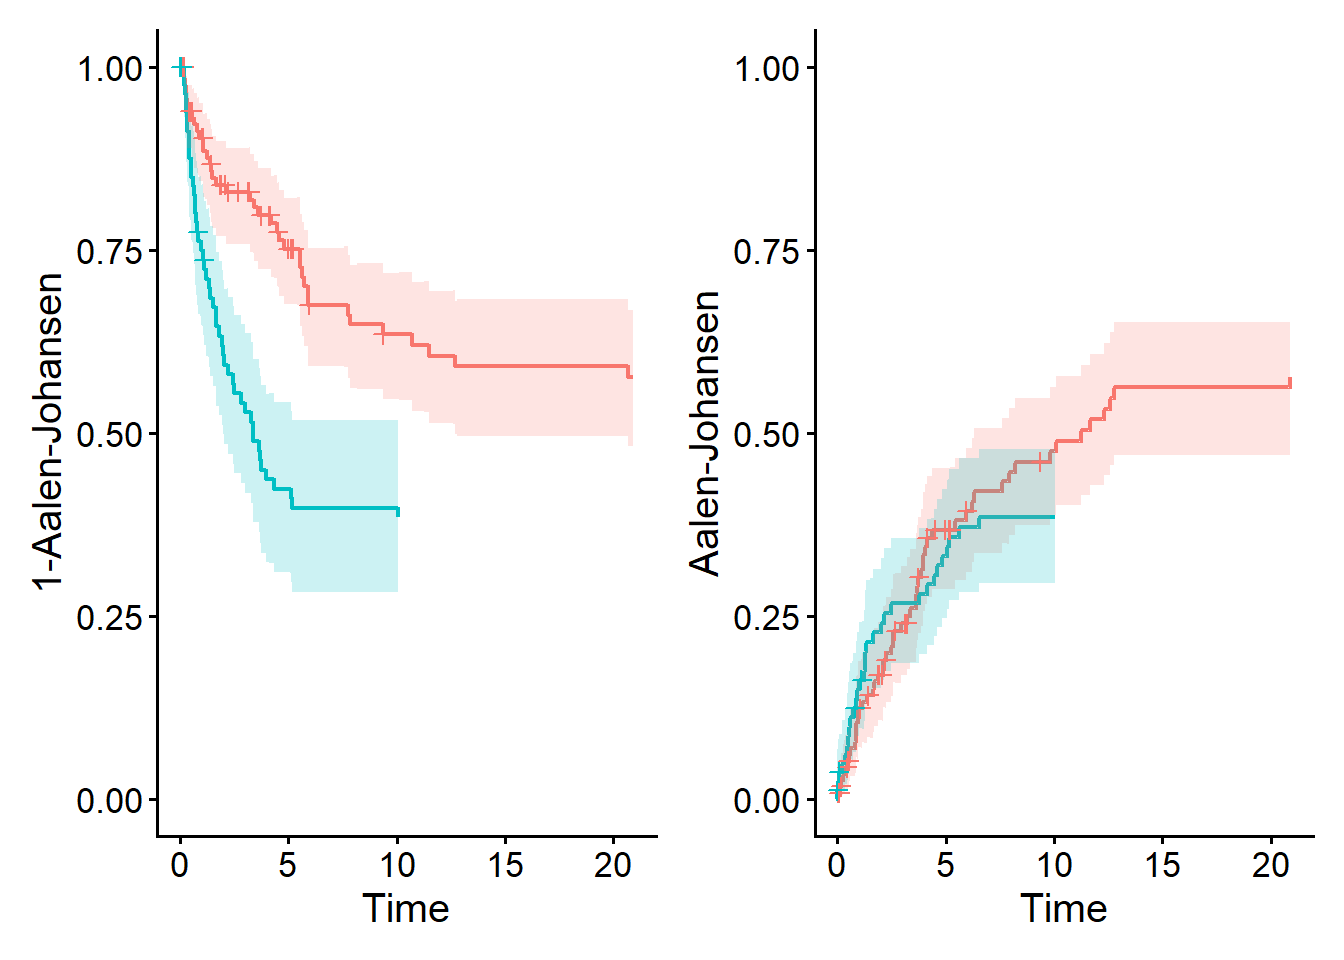
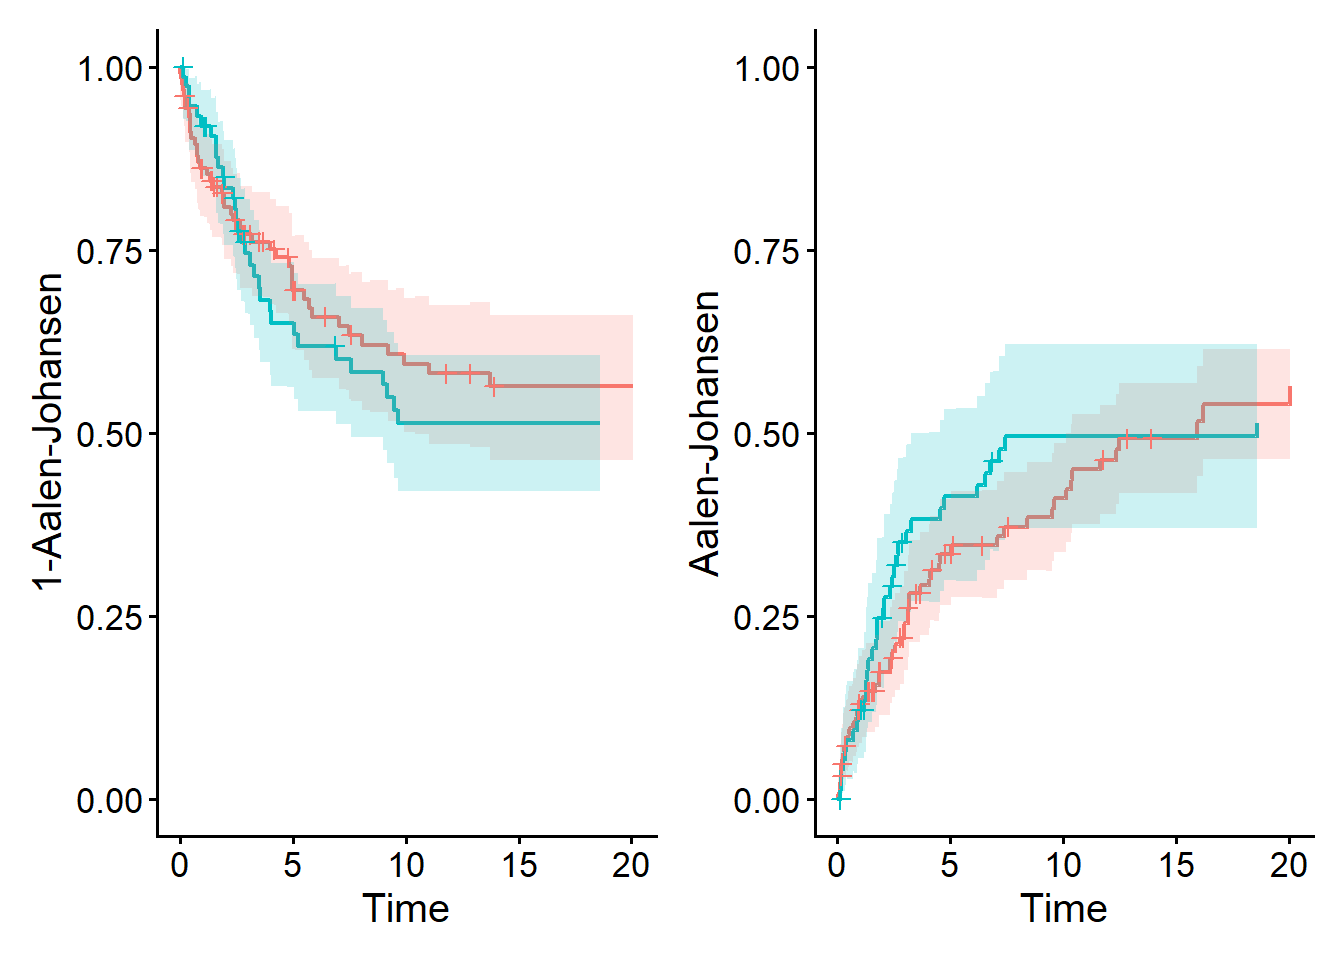
dag

diff --git a/docs/jp/causal-inference-3.html b/docs/jp/causal-inference-3.html
@@ -331,8 +331,32 @@ window.Quarto = {
 <p>お父さん「まだ話は続くから、コーヒー淹れなおそうか。ここからの話題はDAGと確率変数の関係について。まず、以下のRコードの実行結果をみてよ」</p>
 </div>
 </div>
-<div class="callout callout-style-simple callout-note callout-titled" title="Rパッケージを用いたDAGのコードはこちら">
+<div class="callout callout-style-simple callout-note callout-titled" title="ピロリ菌と胃がんの因果関係を表すDAG">
 <div class="callout-header d-flex align-content-center" data-bs-toggle="collapse" data-bs-target=".callout-1-contents" aria-controls="callout-1" aria-expanded="false" aria-label="Toggle callout">
+<div class="callout-icon-container">
+<i class="callout-icon"></i>
+</div>
+<div class="callout-title-container flex-fill">
+ピロリ菌と胃がんの因果関係を表すDAG
+</div>
+<div class="callout-btn-toggle d-inline-block border-0 py-1 ps-1 pe-0 float-end"><i class="callout-toggle"></i></div>
+</div>
+<div id="callout-1" class="callout-1-contents callout-collapse collapse">
+<div class="callout-body-container callout-body">
+<p>ピロリ菌と胃がんの因果関係を表すDAGをもう一度示します。</p>
+<p><img src="causal-inference-3-7.png" class="img-fluid"></p>
+<ul>
+<li>A: 性格（心配性）</li>
+<li>B: 年齢</li>
+<li>C: 体質（胃の炎症）</li>
+<li>D: 胃がん発生</li>
+<li>E: ピロリ菌除菌</li>
+</ul>
+</div>
+</div>
+</div>
+<div class="callout callout-style-simple callout-note callout-titled" title="Rパッケージを用いたDAGのコードはこちら">
+<div class="callout-header d-flex align-content-center" data-bs-toggle="collapse" data-bs-target=".callout-2-contents" aria-controls="callout-2" aria-expanded="false" aria-label="Toggle callout">
 <div class="callout-icon-container">
 <i class="callout-icon"></i>
 </div>
@@ -341,11 +365,9 @@ Rパッケージを用いたDAGのコードはこちら
 </div>
 <div class="callout-btn-toggle d-inline-block border-0 py-1 ps-1 pe-0 float-end"><i class="callout-toggle"></i></div>
 </div>
-<div id="callout-1" class="callout-1-contents callout-collapse collapse">
+<div id="callout-2" class="callout-2-contents callout-collapse collapse">
 <div class="callout-body-container callout-body">
-<p>ピロリ菌と胃がんの因果関係を表すDAGをもう一度示します。</p>
-<p><img src="causal-inference-3-7.png" class="img-fluid"></p>
-<p>このDAGを使って何がわかるかをみるため、Rの<strong>dagitty</strong>パッケージを実行してみます。</p>
+<p>このDAGを使って何がわかるかをみるため、Rの<strong>dagitty</strong>パッケージを実行してみます。<code>dagitty()</code>は、変数の出口と入口を指定することで、ノードを矢印で結びます。<code>adjustmentSets()</code>は、DAGを与えて調整すべき変数の集合（交絡因子の集合）を調べるツールです。</p>
 <div class="cell">
 <div class="sourceCode cell-code" id="cb1"><pre class="sourceCode r code-with-copy"><code class="sourceCode r"><span id="cb1-1"><a href="#cb1-1" aria-hidden="true" tabindex="-1"></a><span class="co"># install.packages("dagitty") #インストールが必要なら実行</span></span>
 <span id="cb1-2"><a href="#cb1-2" aria-hidden="true" tabindex="-1"></a><span class="fu">library</span>(dagitty)</span>
@@ -381,15 +403,15 @@ Rパッケージを用いたDAGのコードはこちら
 </div>
 </div>
 <div class="dialogue">
-<div class="voice-father">
-<p>私「ふむ。今回も呪文の意味はわからぬが、とりあえず、<code>dagitty()</code>の出力を<code>plot()</code>に入れるとDAGが描けたね。そして<code>adjustmentSets()</code>の出力を<code>print()</code>に入れると、交絡因子はBとC、AとCって表示された」</p>
+<div class="voice-daughter">
+<p>私「ふむ。今回も呪文の意味はわからぬが、とりあえず、<code>dagitty()</code>の出力を<code>plot()</code>に入れるとDAGが描かれた。そして<code>adjustmentSets()</code>の出力を<code>print()</code>に入れると、交絡因子はBとC、AとCって表示された」</p>
 </div>
 <div class="voice-father">
-<p>お父さん「その通り。ここからは、DAGから交絡因子を探すアルゴリズムの話なんだけど、そのためには同時分布と条件付分布が要る。人によっては復習が必要かもしれない」</p>
+<p>お父さん「その通り。ここからは、どうやってDAGから交絡因子として調整すべき変数たちを探すかっていうアルゴリズムの話をするねｄｄ。そのためには同時分布と条件付分布が要る。人によっては復習が必要かもしれない」</p>
 </div>
 </div>
 <div class="callout callout-style-simple callout-note callout-titled" title="確率の復習">
-<div class="callout-header d-flex align-content-center" data-bs-toggle="collapse" data-bs-target=".callout-2-contents" aria-controls="callout-2" aria-expanded="false" aria-label="Toggle callout">
+<div class="callout-header d-flex align-content-center" data-bs-toggle="collapse" data-bs-target=".callout-3-contents" aria-controls="callout-3" aria-expanded="false" aria-label="Toggle callout">
 <div class="callout-icon-container">
 <i class="callout-icon"></i>
 </div>
@@ -398,7 +420,7 @@ Rパッケージを用いたDAGのコードはこちら
 </div>
 <div class="callout-btn-toggle d-inline-block border-0 py-1 ps-1 pe-0 float-end"><i class="callout-toggle"></i></div>
 </div>
-<div id="callout-2" class="callout-2-contents callout-collapse collapse">
+<div id="callout-3" class="callout-3-contents callout-collapse collapse">
 <div class="callout-body-container callout-body">
 <p><strong>同時確率と条件付確率</strong></p>
 <p>複数の事象を扱うとき、<strong>事象が同時に起こる確率（同時確率</strong>）と、<strong>順番に起こる確率（条件付確率）</strong>を区別することが大切です。たとえば2種類の事象AとBがあったとしましょう。「AまたはBが起きる」という事象は、和集合<span class="math inline">\(A\cup{B}\)</span>で表します。「AかつBが起きる」という事象は、積集合<span class="math inline">\(A\cap{B}\)</span>で表します。</p>
@@ -419,7 +441,7 @@ Rパッケージを用いたDAGのコードはこちら
 </div>
 <div class="dialogue">
 <div class="voice-father">
-<p>お父さん「復習はできた？じゃあDAGと確率変数の関係について説明しよう」</p>
+<p>お父さん「思い出した？じゃあDAGと確率変数の関係について説明しよう」</p>
 </div>
 <div class="voice-daughter">
 <p>私「ふむふむ」</p>
@@ -485,7 +507,7 @@ Rパッケージを用いたDAGのコードはこちら
 <p>私「なんとなくゴールが見えてきた。この図みたいにCが合流点だったら、調整なんかせずにEとDの相関を調べればいいってことね」</p>
 </div>
 <div class="voice-father">
-<p>お父さん「簡単にいうとそういうこと。<strong>合流点があると、変数間の相関関係がトリッキーになる</strong>んだ」</p>
+<p>お父さん「簡単にいうとそういうこと。<strong>合流点があると、変数間の相関関係がトリッキーになる</strong>んだ。簡単にいうと、<strong>dagitty</strong>パッケージは合流点に気をつけながら、バックドアパスをブロックする変数を見つけてくれるんだ」</p>
 </div>
 </div>
 <div class="callout callout-style-simple callout-note callout-titled" title="合流点の性質">
@@ -513,7 +535,7 @@ Rパッケージを用いたDAGのコードはこちら
 </div>
 </div>
 <div class="callout callout-style-simple callout-note callout-titled" title="合流点とブロックの関係">
-<div class="callout-header d-flex align-content-center" data-bs-toggle="collapse" data-bs-target=".callout-4-contents" aria-controls="callout-4" aria-expanded="false" aria-label="Toggle callout">
+<div class="callout-header d-flex align-content-center" data-bs-toggle="collapse" data-bs-target=".callout-5-contents" aria-controls="callout-5" aria-expanded="false" aria-label="Toggle callout">
 <div class="callout-icon-container">
 <i class="callout-icon"></i>
 </div>
@@ -522,7 +544,7 @@ Rパッケージを用いたDAGのコードはこちら
 </div>
 <div class="callout-btn-toggle d-inline-block border-0 py-1 ps-1 pe-0 float-end"><i class="callout-toggle"></i></div>
 </div>
-<div id="callout-4" class="callout-4-contents callout-collapse collapse">
+<div id="callout-5" class="callout-5-contents callout-collapse collapse">
 <div class="callout-body-container callout-body">
 <p>この表は、原因から結果までのパスを、有向か無向か、合流点をいくつ含んでいるかに従って、4分類して、パスの性質を整理したものです。すでに述べたように、調整するかどうか検討の候補になるのは、原因から結果までの無向パスです。もし、無向パスが<strong>合流点を含まないなら、パス上のどこかの変数を調整しない限り、そのパスはブロックされません</strong>。言い換えると、パス上の変数を調整し、このパスをブロックすることで、バイアスを防ぐことができるかもしれません。無向パスが<strong>合流点を1つ含むとき、調整しなくてもこのパスは合流点でブロックされます</strong>が、<strong>合流点のみを調整すると、ブロックが解けてしまいます</strong>。ただし、非合流点を調整すると、合流点を調整したとしても、そのパスはブロックされます。合流点を1つ以上含む場合も、考え方は同じです。調整していない合流点があるか、非合流点を調整すると、このパスはブロックされます。しかし、すべての合流点のみを調整すると、ブロックが解けてしまいます。</p>
 <table class="caption-top table">
@@ -583,7 +605,7 @@ Rパッケージを用いたDAGのコードはこちら
 </div>
 </div>
 <div class="callout callout-style-simple callout-note callout-titled" title="答えはこちら">
-<div class="callout-header d-flex align-content-center" data-bs-toggle="collapse" data-bs-target=".callout-6-contents" aria-controls="callout-6" aria-expanded="false" aria-label="Toggle callout">
+<div class="callout-header d-flex align-content-center" data-bs-toggle="collapse" data-bs-target=".callout-7-contents" aria-controls="callout-7" aria-expanded="false" aria-label="Toggle callout">
 <div class="callout-icon-container">
 <i class="callout-icon"></i>
 </div>
@@ -592,7 +614,7 @@ Rパッケージを用いたDAGのコードはこちら
 </div>
 <div class="callout-btn-toggle d-inline-block border-0 py-1 ps-1 pe-0 float-end"><i class="callout-toggle"></i></div>
 </div>
-<div id="callout-6" class="callout-6-contents callout-collapse collapse">
+<div id="callout-7" class="callout-7-contents callout-collapse collapse">
 <div class="callout-body-container callout-body">
 <ul>
 <li><strong>正解は1です。</strong></li>
@@ -623,7 +645,7 @@ Rパッケージを用いたDAGのコードはこちら
 </div>
 </div>
 <div class="callout callout-style-simple callout-note callout-titled" title="答えはこちら">
-<div class="callout-header d-flex align-content-center" data-bs-toggle="collapse" data-bs-target=".callout-8-contents" aria-controls="callout-8" aria-expanded="false" aria-label="Toggle callout">
+<div class="callout-header d-flex align-content-center" data-bs-toggle="collapse" data-bs-target=".callout-9-contents" aria-controls="callout-9" aria-expanded="false" aria-label="Toggle callout">
 <div class="callout-icon-container">
 <i class="callout-icon"></i>
 </div>
@@ -632,7 +654,7 @@ Rパッケージを用いたDAGのコードはこちら
 </div>
 <div class="callout-btn-toggle d-inline-block border-0 py-1 ps-1 pe-0 float-end"><i class="callout-toggle"></i></div>
 </div>
-<div id="callout-8" class="callout-8-contents callout-collapse collapse">
+<div id="callout-9" class="callout-9-contents callout-collapse collapse">
 <div class="callout-body-container callout-body">
 <ul>
 <li><strong>正解は4です。</strong></li>
@@ -655,7 +677,7 @@ Rパッケージを用いたDAGのコードはこちら
 <li><a href="causal-inference-4.html">A Circle, an Equation, and a Cylinder</a></li>
 </ul>
 <div class="callout callout-style-simple callout-note callout-titled" title="他のエピソードはこちら">
-<div class="callout-header d-flex align-content-center" data-bs-toggle="collapse" data-bs-target=".callout-9-contents" aria-controls="callout-9" aria-expanded="false" aria-label="Toggle callout">
+<div class="callout-header d-flex align-content-center" data-bs-toggle="collapse" data-bs-target=".callout-10-contents" aria-controls="callout-10" aria-expanded="false" aria-label="Toggle callout">
 <div class="callout-icon-container">
 <i class="callout-icon"></i>
 </div>
@@ -664,7 +686,7 @@ Rパッケージを用いたDAGのコードはこちら
 </div>
 <div class="callout-btn-toggle d-inline-block border-0 py-1 ps-1 pe-0 float-end"><i class="callout-toggle"></i></div>
 </div>
-<div id="callout-9" class="callout-9-contents callout-collapse collapse">
+<div id="callout-10" class="callout-10-contents callout-collapse collapse">
 <div class="callout-body-container callout-body">
 <p><strong>このシリーズのエピソード</strong></p>
 <ul>

diff --git a/docs/jp/frequentist-5.html b/docs/jp/frequentist-5.html
@@ -500,7 +500,7 @@ calculate_coverage()を実行するRコードと結果はこちら
 <span id="cb3-3"><a href="#cb3-3" aria-hidden="true" tabindex="-1"></a>coverage_200 <span class="ot">&lt;-</span> <span class="fu">calculate_coverage</span>(<span class="at">model=</span><span class="st">"coxph"</span>, <span class="at">n=</span><span class="dv">200</span>, <span class="at">hr1=</span><span class="dv">2</span>, <span class="at">hr2=</span><span class="fl">1.5</span>, <span class="at">hr_true=</span><span class="fl">1.5</span>)</span>
 <span id="cb3-4"><a href="#cb3-4" aria-hidden="true" tabindex="-1"></a><span class="fu">print</span>(coverage_200)</span></code><button title="Copy to Clipboard" class="code-copy-button"><i class="bi"></i></button></pre></div>
 <div class="cell-output cell-output-stdout">
-<pre><code>[1] 0.954</code></pre>
+<pre><code>[1] 0.953</code></pre>
 </div>
 </div>
 </div>
@@ -544,11 +544,11 @@ calculate_coverage()を実行するRコードと結果はこちら
 <span id="cb5-3"><a href="#cb5-3" aria-hidden="true" tabindex="-1"></a>coverage_800 <span class="ot">&lt;-</span> <span class="fu">calculate_coverage</span>(<span class="at">model=</span><span class="st">"coxph"</span>, <span class="at">n=</span><span class="dv">800</span>, <span class="at">hr1=</span><span class="dv">2</span>, <span class="at">hr2=</span><span class="fl">1.5</span>, <span class="at">hr_true=</span><span class="fl">1.5</span>)</span>
 <span id="cb5-4"><a href="#cb5-4" aria-hidden="true" tabindex="-1"></a><span class="fu">print</span>(coverage_100)</span></code><button title="Copy to Clipboard" class="code-copy-button"><i class="bi"></i></button></pre></div>
 <div class="cell-output cell-output-stdout">
-<pre><code>[1] 0.949</code></pre>
+<pre><code>[1] 0.965</code></pre>
 </div>
 <div class="sourceCode cell-code" id="cb7"><pre class="sourceCode r code-with-copy"><code class="sourceCode r"><span id="cb7-1"><a href="#cb7-1" aria-hidden="true" tabindex="-1"></a><span class="fu">print</span>(coverage_200)</span></code><button title="Copy to Clipboard" class="code-copy-button"><i class="bi"></i></button></pre></div>
 <div class="cell-output cell-output-stdout">
-<pre><code>[1] 0.954</code></pre>
+<pre><code>[1] 0.953</code></pre>
 </div>
 <div class="sourceCode cell-code" id="cb9"><pre class="sourceCode r code-with-copy"><code class="sourceCode r"><span id="cb9-1"><a href="#cb9-1" aria-hidden="true" tabindex="-1"></a><span class="fu">print</span>(coverage_400)</span></code><button title="Copy to Clipboard" class="code-copy-button"><i class="bi"></i></button></pre></div>
 <div class="cell-output cell-output-stdout">
@@ -556,7 +556,7 @@ calculate_coverage()を実行するRコードと結果はこちら
 </div>
 <div class="sourceCode cell-code" id="cb11"><pre class="sourceCode r code-with-copy"><code class="sourceCode r"><span id="cb11-1"><a href="#cb11-1" aria-hidden="true" tabindex="-1"></a><span class="fu">print</span>(coverage_800)</span></code><button title="Copy to Clipboard" class="code-copy-button"><i class="bi"></i></button></pre></div>
 <div class="cell-output cell-output-stdout">
-<pre><code>[1] 0.947</code></pre>
+<pre><code>[1] 0.949</code></pre>
 </div>
 </div>
 </div>

diff --git a/docs/jp/frequentist-2.html b/docs/jp/frequentist-2.html
@@ -546,20 +546,20 @@ coxph()のコードと結果はこちら
 <pre><code>Call:
 coxph(formula = Surv(time_os, status_os) ~ stoma, data = dat)
 
-  n= 200, number of events= 147 
+  n= 200, number of events= 144 
 
-                  coef exp(coef) se(coef)     z Pr(&gt;|z|)  
-stomaWITH STOMA 0.3975    1.4881   0.1687 2.356   0.0185 *
+                  coef exp(coef) se(coef)     z Pr(&gt;|z|)   
+stomaWITH STOMA 0.4612    1.5860   0.1696 2.719  0.00654 **
 ---
 Signif. codes:  0 '***' 0.001 '**' 0.01 '*' 0.05 '.' 0.1 ' ' 1
 
                 exp(coef) exp(-coef) lower .95 upper .95
-stomaWITH STOMA     1.488      0.672     1.069     2.071
+stomaWITH STOMA     1.586     0.6305     1.137     2.211
 
-Concordance= 0.551  (se = 0.024 )
-Likelihood ratio test= 5.5  on 1 df,   p=0.02
-Wald test            = 5.55  on 1 df,   p=0.02
-Score (logrank) test = 5.62  on 1 df,   p=0.02</code></pre>
+Concordance= 0.552  (se = 0.023 )
+Likelihood ratio test= 7.24  on 1 df,   p=0.007
+Wald test            = 7.39  on 1 df,   p=0.007
+Score (logrank) test = 7.52  on 1 df,   p=0.006</code></pre>
 </div>
 </div>
 </div>

diff --git a/docs/en/frequentist-2.html b/docs/en/frequentist-2.html
@@ -556,20 +556,20 @@ R code for coxph() and outout
 <pre><code>Call:
 coxph(formula = Surv(time_os, status_os) ~ stoma, data = dat)
 
-  n= 200, number of events= 132 
+  n= 200, number of events= 147 
 
-                  coef exp(coef) se(coef)    z Pr(&gt;|z|)  
-stomaWITH STOMA 0.4395    1.5519   0.1808 2.43   0.0151 *
+                  coef exp(coef) se(coef)     z Pr(&gt;|z|)   
+stomaWITH STOMA 0.4925    1.6365   0.1730 2.847  0.00442 **
 ---
 Signif. codes:  0 '***' 0.001 '**' 0.01 '*' 0.05 '.' 0.1 ' ' 1
 
                 exp(coef) exp(-coef) lower .95 upper .95
-stomaWITH STOMA     1.552     0.6444     1.089     2.212
+stomaWITH STOMA     1.636     0.6111     1.166     2.297
 
-Concordance= 0.523  (se = 0.025 )
-Likelihood ratio test= 5.82  on 1 df,   p=0.02
-Wald test            = 5.91  on 1 df,   p=0.02
-Score (logrank) test = 6  on 1 df,   p=0.01</code></pre>
+Concordance= 0.545  (se = 0.023 )
+Likelihood ratio test= 7.96  on 1 df,   p=0.005
+Wald test            = 8.1  on 1 df,   p=0.004
+Score (logrank) test = 8.26  on 1 df,   p=0.004</code></pre>
 </div>
 </div>
 </div>
